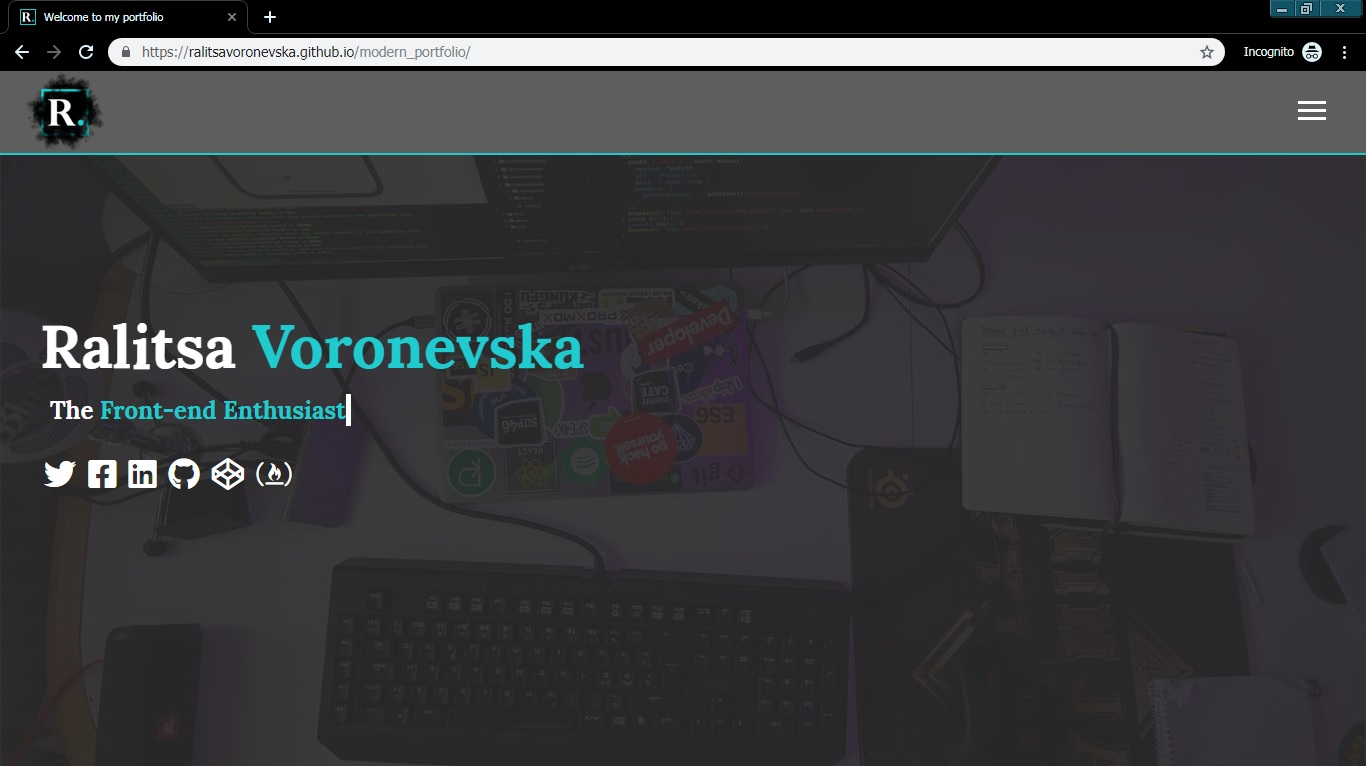
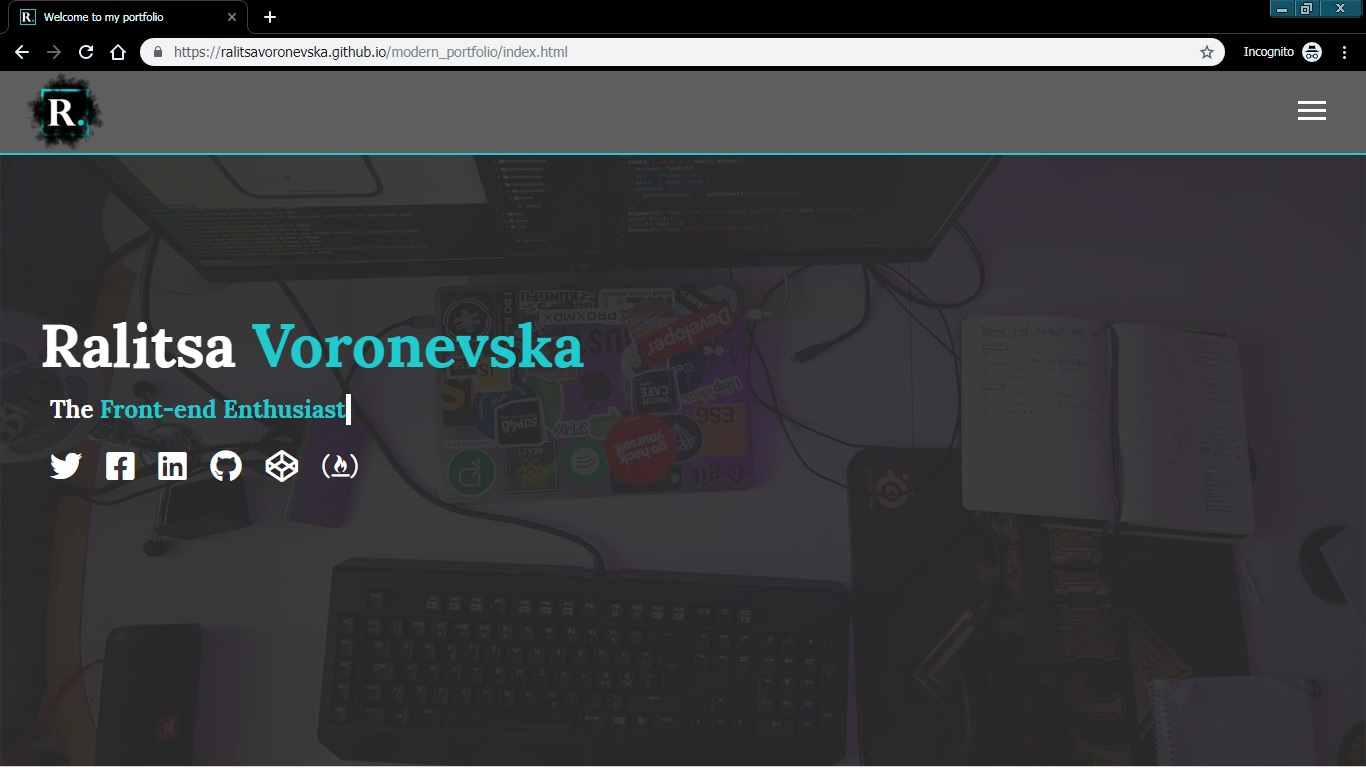
Updates

diff --git a/css/all.css b/css/all.css
@@ -60,8 +60,7 @@ main {
     text-rendering: auto;
     -webkit-font-smoothing: antialiased; }
   .icons a {
-    padding: 0.5rem;
-    margin: 0.5rem;
+    padding: 0.4rem;
     transition: all 0.5s ease-out; }
     .icons a:hover {
       color: #1fcbcf; }
